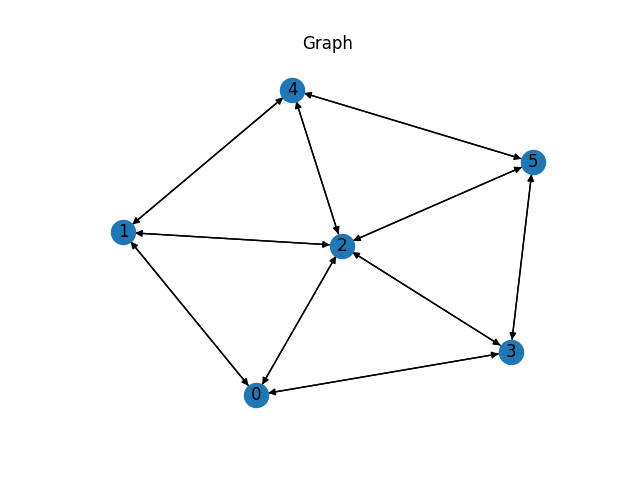
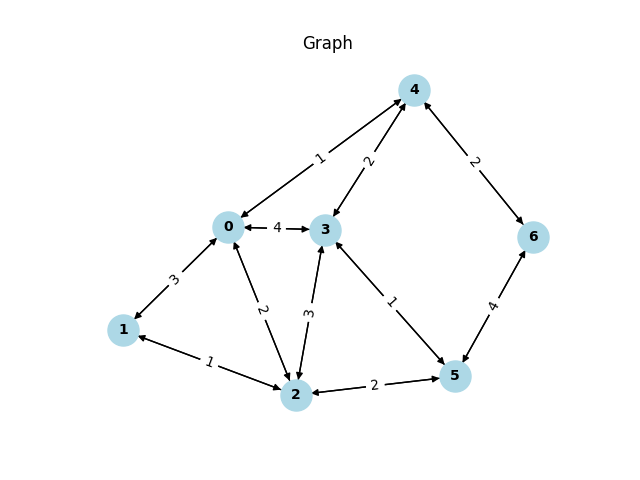
prim done

diff --git a/templates/index.html b/templates/index.html
@@ -46,12 +46,20 @@
 								required
 							/>
 						</div>
+						<div class="form-group">
+							<label for="start_node">Start Node:</label>
+							<select class="form-control" name="start_node" id="start_node" required>
+								<!-- Options dynamically generated based on the number of nodes -->
+							</select>
+						</div>
 						<table class="table table-bordered" id="adj_matrix_table">
 							<!-- Dynamically generated table for adjacency matrix -->
 							<script>
 								$("#num_nodes").on("input", function () {
 									const numNodes = $(this).val();
+									const startNodeSelect = $("#start_node");
 									const adjMatrixTable = $("#adj_matrix_table");
+									startNodeSelect.empty();
 									adjMatrixTable.empty();
 
 									const headerRow = $("<tr>");
@@ -59,6 +67,8 @@
 									for (let i = 0; i < numNodes; i++) {
 										const th = $("<th>").text(i);
 										headerRow.append(th);
+										const option = $("<option>").attr("value", i).text(i);
+										startNodeSelect.append(option);
 									}
 									adjMatrixTable.append(headerRow);
 
@@ -88,3 +98,4 @@
 		</div>
 	</body>
 </html>
+

diff --git a/templates/result5.html b/templates/result5.html
@@ -12,25 +12,13 @@
 		<h5>{{ dfs_result|join(', ') }}</h5>
 
 		<h2>Prim Algorithm Result:</h2>
-		<ul>
-			{% for edge, weight in prim_result.items() %}
-			<li>{{ edge }} : {{ weight }}</li>
-			{% endfor %}
-		</ul>
-
+		<h5>{{ prim_result }}</h5>
 		<h2>Graph:</h2>
+
 		<div>
 			<img
 				src="{{ url_for('static', filename='img/graph.png') }}"
 				alt="Graph"
-			/>
-		</div>
-
-		<h2>Prim's Graph:</h2>
-		<div>
-			<img
-				src="{{ url_for('static', filename='img/prim_graph.png') }}"
-				alt="Prim's Graph"
 			/>
 		</div>
 	</body>

diff --git a/app.py b/app.py
@@ -7,6 +7,7 @@ import matplotlib.pyplot as plt
 
 from bfs import bfs
 from dfs import dfs
+from prim import Prim
 
 
 app = Flask(__name__)
@@ -22,11 +23,20 @@ def index():
             for j in range(num_nodes):
                 adj_matrix[i][j] = int(request.form[f'adj_matrix_{i}_{j}'])
 
+        start_node = int(request.form['start_node'])
+
         graph = nx.DiGraph(adj_matrix)
 
-        dfs_result = list(map(str, dfs(graph, 0))) if dfs(graph, 0) else None
-        bfs_result = list(map(str, bfs(graph, 0))) if bfs(graph, 0) else None
+        prim = Prim(num_nodes)
+        prim.graph = adj_matrix
+        prim_result = prim.primMST()
 
+        print("prim", prim_result)
+
+        dfs_result = list(map(str, dfs(graph, start_node))
+                          ) if dfs(graph, start_node) else None
+        bfs_result = list(map(str, bfs(graph, start_node))
+                          ) if bfs(graph, start_node) else None
 
         img_folder = "C:\\Users\\lenovo\\Desktop\\TG GUI Flask\\static\\img"
         # delete existing images in folder
@@ -37,10 +47,37 @@ def index():
         fig = plt.figure(1)
         fig.clf()
         plt.title('Graph')
-        nx.draw(graph, with_labels=True)
+
+        # Draw the graph with edge labels
+        pos = nx.spring_layout(graph)
+        edge_labels = nx.get_edge_attributes(graph, 'weight')
+        nx.draw(graph, pos, with_labels=True, node_color='lightblue',
+                node_size=500, font_size=10, font_weight='bold')
+        nx.draw_networkx_edge_labels(graph, pos, edge_labels=edge_labels)
+
+        plt.ion()
+        plt.show()
+
         plt.savefig(os.path.join(img_folder, 'graph.png'), format='png')
 
-        return render_template('result.html', bfs_result=bfs_result, dfs_result=dfs_result)
+        fig = plt.figure(2)
+        fig.clf()
+        plt.title('Prim\'s Graph')
+        prim_graph = nx.DiGraph()
+        prim_graph.add_edges_from(prim_result.keys())
+        pos = nx.spring_layout(prim_graph)
+        labels = nx.get_edge_attributes(prim_graph, 'weight')
+        nx.draw(prim_graph, pos, with_labels=True)
+        nx.draw_networkx_edge_labels(prim_graph, pos, edge_labels=labels)
+        plt.savefig(os.path.join(img_folder, 'prim_graph.png'), format='png')
+
+        # fig = plt.figure(1)
+        # fig.clf()
+        # plt.title('Graph')
+        # nx.draw(graph, with_labels=True)
+        # plt.savefig(os.path.join(img_folder, 'graph.png'), format='png')
+
+        return render_template('result.html', bfs_result=bfs_result, dfs_result=dfs_result, prim_result=prim_result)
     else:
         return render_template('index.html')
 

diff --git a/prim.py b/prim.py
@@ -1,0 +1,89 @@
+# import sys
+
+
+# class Prim():
+#     def __init__(self, vertices):
+#         self.V = vertices
+#         self.graph = [[0 for column in range(vertices)]
+#                       for row in range(vertices)]
+
+#     def printMST(self, parent):
+#         print("Edge \tWeight")
+#         for i in range(1, self.V):
+#             print(parent[i], "-", i, "\t", self.graph[i][parent[i]])
+
+#     def minKey(self, key, mstSet):
+#         min = sys.maxsize
+#         for v in range(self.V):
+#             if key[v] < min and mstSet[v] == False:
+#                 min = key[v]
+#                 min_index = v
+#         return min_index
+
+#     def primMST(self):
+
+#         key = [sys.maxsize] * self.V
+#         parent = [None] * self.V
+#         key[0] = 0
+#         mstSet = [False] * self.V
+
+#         parent[0] = -1
+
+#         for cout in range(self.V):
+#             u = self.minKey(key, mstSet)
+
+#             mstSet[u] = True
+#             for v in range(self.V):
+#                 if self.graph[u][v] > 0 and mstSet[v] == False \
+#                         and key[v] > self.graph[u][v]:
+#                     key[v] = self.graph[u][v]
+#                     parent[v] = u
+
+#         self.printMST(parent)
+
+
+import sys
+
+
+class Prim():
+    def __init__(self, vertices):
+        self.V = vertices
+        self.graph = [[0 for column in range(vertices)]
+                      for row in range(vertices)]
+
+    def find_min_edge(self, key, mstSet):
+        min_weight = sys.maxsize
+        min_index = -1
+        for v in range(self.V):
+            if key[v] < min_weight and mstSet[v] is False:
+                min_weight = key[v]
+                min_index = v
+        return min_index
+
+    def primMST(self):
+        key = [sys.maxsize] * self.V
+        parent = [None] * self.V
+        key[0] = 0
+        mstSet = [False] * self.V
+
+        parent[0] = -1
+
+        result = {}  # Dictionary to store the result
+
+        for _ in range(self.V):
+            u = self.find_min_edge(key, mstSet)
+
+            mstSet[u] = True
+            for v in range(self.V):
+                if (
+                    self.graph[u][v] > 0
+                    and mstSet[v] is False
+                    and key[v] > self.graph[u][v]
+                ):
+                    key[v] = self.graph[u][v]
+                    parent[v] = u
+
+        for i in range(1, self.V):
+            result[(parent[i], i)] = self.graph[i][parent[i]]
+
+        return result

diff --git a/bfs.py b/bfs.py
@@ -1,43 +1,5 @@
 from collections import deque
 
-# def bfs(graph, start):
-#     visited = [False] * len(graph)
-#     queue = deque([start])
-#     visited[start] = True
-#     while queue:
-#         node = queue.popleft()
-#         print(node, end=" ")
-#         for neighbor in range(len(graph)):
-#             if graph[node][neighbor] == 1 and not visited[neighbor]:
-#                 queue.append(neighbor)
-#                 visited[neighbor] = True
-
-# def bfs(graph, start):
-#     visited = [False] * len(graph)
-#     queue = deque([start])
-#     visited[start] = True
-#     while queue:
-#         node = queue.popleft()
-#         print(node, end=" ")
-#         for neighbor in graph.neighbors(node):
-#             if not visited[neighbor]:
-#                 queue.append(neighbor)
-#                 visited[neighbor] = True
-
-
-# def bfs(graph, start):
-#     visited = [False] * len(graph)
-#     result = []
-#     queue = deque([start])
-#     visited[start] = True
-#     while queue:
-#         node = queue.popleft()
-#         result.append(node)
-#         for neighbor in range(len(graph)):
-#             if graph[node][neighbor] == 1 and not visited[neighbor]:
-#                 queue.append(neighbor)
-#                 visited[neighbor] = True
-#     return result
 
 def bfs(graph, start):
     visited = [False] * len(graph.nodes)

diff --git a/dfs.py b/dfs.py
@@ -1,36 +1,3 @@
-# def dfs(graph, start, visited=None):
-#     if visited is None:
-#         visited = [False] * len(graph)
-#     visited[start] = True
-#     print(start, end=" ")
-#     for neighbor in range(len(graph)):
-#         if graph[start][neighbor] == 1 and not visited[neighbor]:
-#             dfs(graph, neighbor, visited)
-
-
-# def dfs(graph, start, visited=None):
-#     if visited is None:
-#         visited = [False] * len(graph.nodes)
-#     visited[start] = True
-#     print(start, end=" ")
-#     for neighbor in graph.successors(start):
-#         if not visited[neighbor]:
-#             dfs(graph, neighbor, visited)
-
-# def dfs(graph, start):
-#     visited = [False] * len(graph)
-#     result = []
-#     stack = [start]
-#     visited[start] = True
-#     while stack:
-#         node = stack.pop()
-#         result.append(node)
-#         for neighbor in range(len(graph)):
-#             if graph[node][neighbor] == 1 and not visited[neighbor]:
-#                 stack.append(neighbor)
-#                 visited[neighbor] = True
-#     return result
-
 def dfs(graph, node, visited=None):
     if visited is None:
         visited = set()
